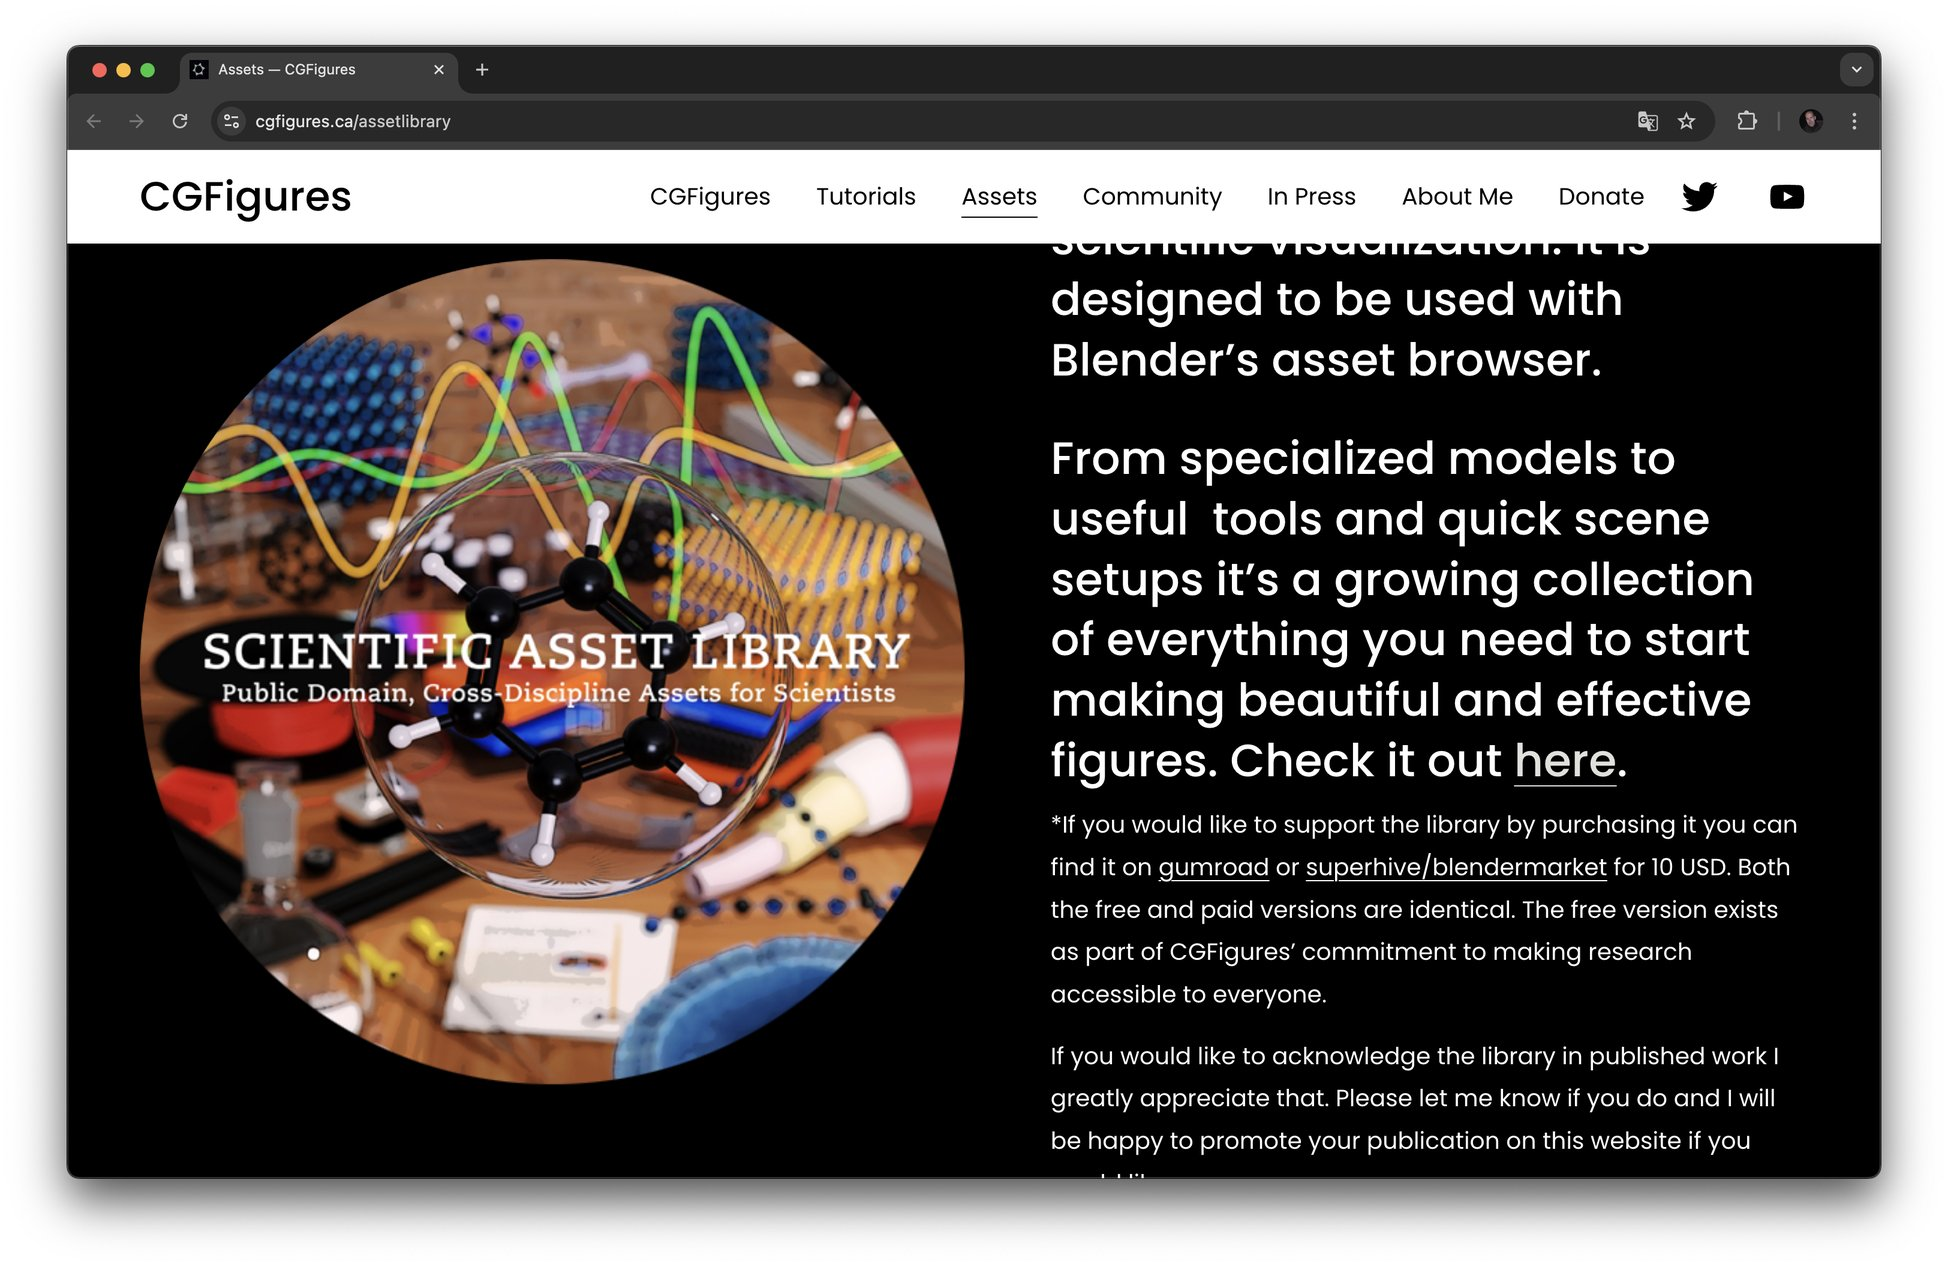
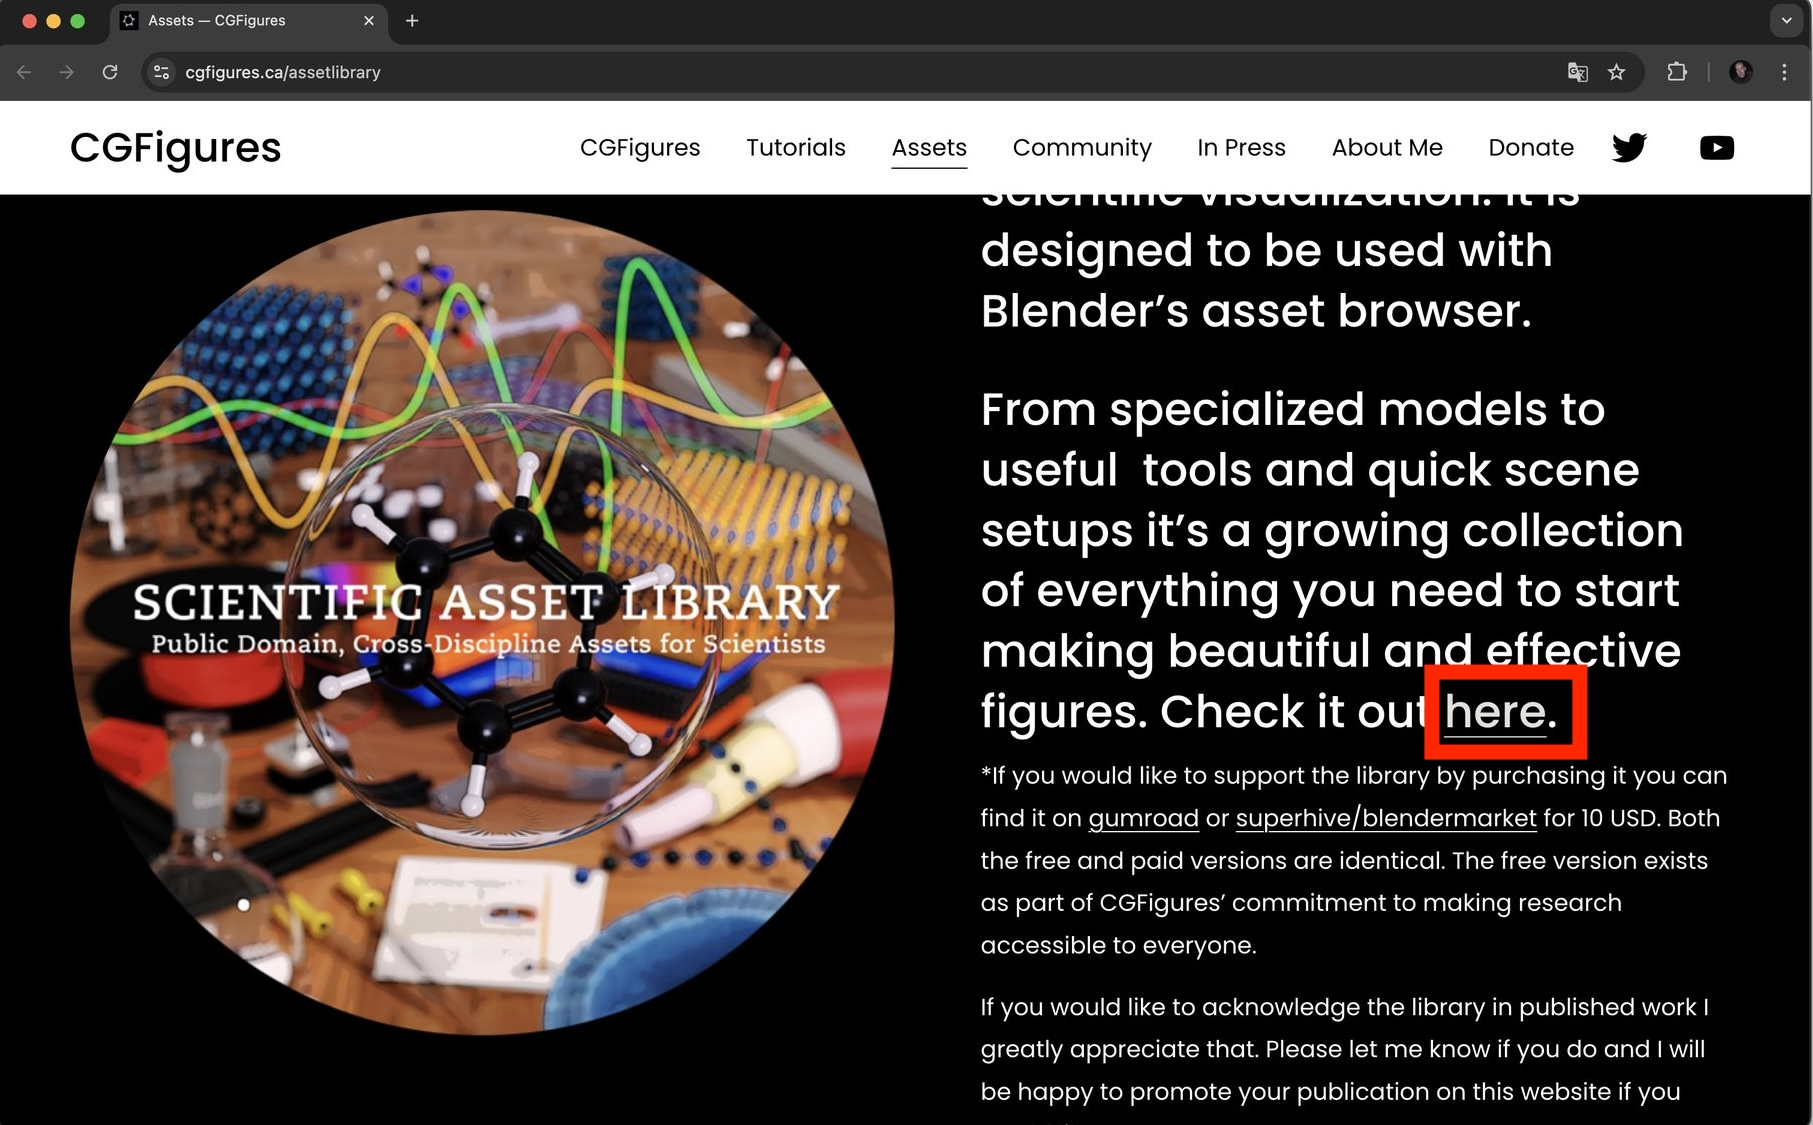
complete config doc

diff --git a/Lessons/Molecules/2_config.md b/Lessons/Molecules/2_config.md
@@ -14,17 +14,36 @@ This mini tutorial describes two configuration steps that assist molecular visua
 Launch Blender and select:
 
 ```
-Edit.. Preferences.. Get Extensions
+Edit.. Preferences
 ```
 
 
 
+<center>
+    <img src="ss/cf00.jpg" alt="image" width="400"/>
+    <br>
+    <br>
+		<br>
+</center>
 
+In the Preferences Window:
 
-
+- Click on "Get Extensions" from the left-hand menu
+- In the search box (top) start to type "atomic"
+- Find `Atomic Blender PDB/XYZ` and click "Install"
 
 <center>
-    <img src="ss/cf00.jpg" alt="image" width="300"/>
+    <img src="ss/cf01.jpg" alt="image" width="800"/>
+    <br>
+    <br>
+		<br>
+</center>
+
+
+Verify that the `Atomic Blender PDB/XYZ` add-on now appears in the "installed" list.
+
+<center>
+    <img src="ss/cf02.jpg" alt="image" width="800"/>
     <br>
     <br>
 		<br>
@@ -32,5 +51,118 @@ Edit.. Preferences.. Get Extensions
 
 
 
+# Install CGFFigures
 
 
+Visit the CGFFigures website:    https://www.cgfigures.ca/assetlibrary
+
+<center>
+    <img src="ss/cf03.jpg" alt="image" width="600"/>
+    <br>
+    <br>
+		<br>
+</center>
+
+Scroll down until you see "Check it out here"
+
+Click on the underlined "here"
+
+<center>
+    <img src="ss/cf04.jpg" alt="image" width="600"/>
+    <br>
+    <br>
+		<br>
+</center>
+
+You will be routed to a Google Drive folder.
+
+Click on the "Download" button.
+
+<center>
+    <img src="ss/cf05.jpg" alt="image" width="800"/>
+    <br>
+    <br>
+		<br>
+</center>
+Verify that the CGFigures Asset Library ZIP file has been downloaded.
+
+This file is relatively large (about 200 MB) so it may take a while to download.
+
+
+
+<center>
+    <img src="ss/cf06.jpg" alt="image" width="800"/>
+    <br>
+    <br>
+		<br>
+</center>
+Decompress (unzip) the downloaded ZIP file.
+
+Verify that you can now see a folder called "The CGFigures Asset Library"
+
+Also verify that this folder contains the contents depicted below.
+
+<center>
+    <img src="ss/cf07.jpg" alt="image" width="800"/>
+    <br>
+    <br>
+		<br>
+</center>
+
+Launch Blender and select:
+
+```
+Edit.. Preferences
+```
+
+<center>
+    <img src="ss/cf00.jpg" alt="image" width="400"/>
+    <br>
+    <br>
+		<br>
+</center>
+Select "File Paths" from the left-hand menu.
+
+Then select the "+" button beside the Asset Libraries.
+
+
+<center>
+    <img src="ss/cf08.jpg" alt="image" width="800"/>
+    <br>
+    <br>
+		<br>
+</center>
+In the file dialog, navigate to the unzipped folder: "The CGFigures Asset Library"
+
+Select "Add Asset Library"
+
+<center>
+    <img src="ss/cf09.jpg" alt="image" width="800"/>
+    <br>
+    <br>
+		<br>
+</center>
+The folder will open, showing you sub-folders of "The CGFigures Asset Library"
+
+Do NOT select any of the sub-folders.
+
+Instead press "Add Asset Library"  (i.e., press this button for a second time to select the entire "The CGFigures Asset Library" folder)
+
+<center>
+    <img src="ss/cf10.jpg" alt="image" width="800"/>
+    <br>
+    <br>
+		<br>
+</center>
+
+Back in the Preferences panel confirm that "The CGFigures Asset Library" has been added to the Asset Libraries.
+
+<center>
+    <img src="ss/cf11.jpg" alt="image" width="800"/>
+    <br>
+    <br>
+		<br>
+</center>
+Close the Preferences window.
+
+Congratulations!  Blender is now configured for molecular visualizations!
